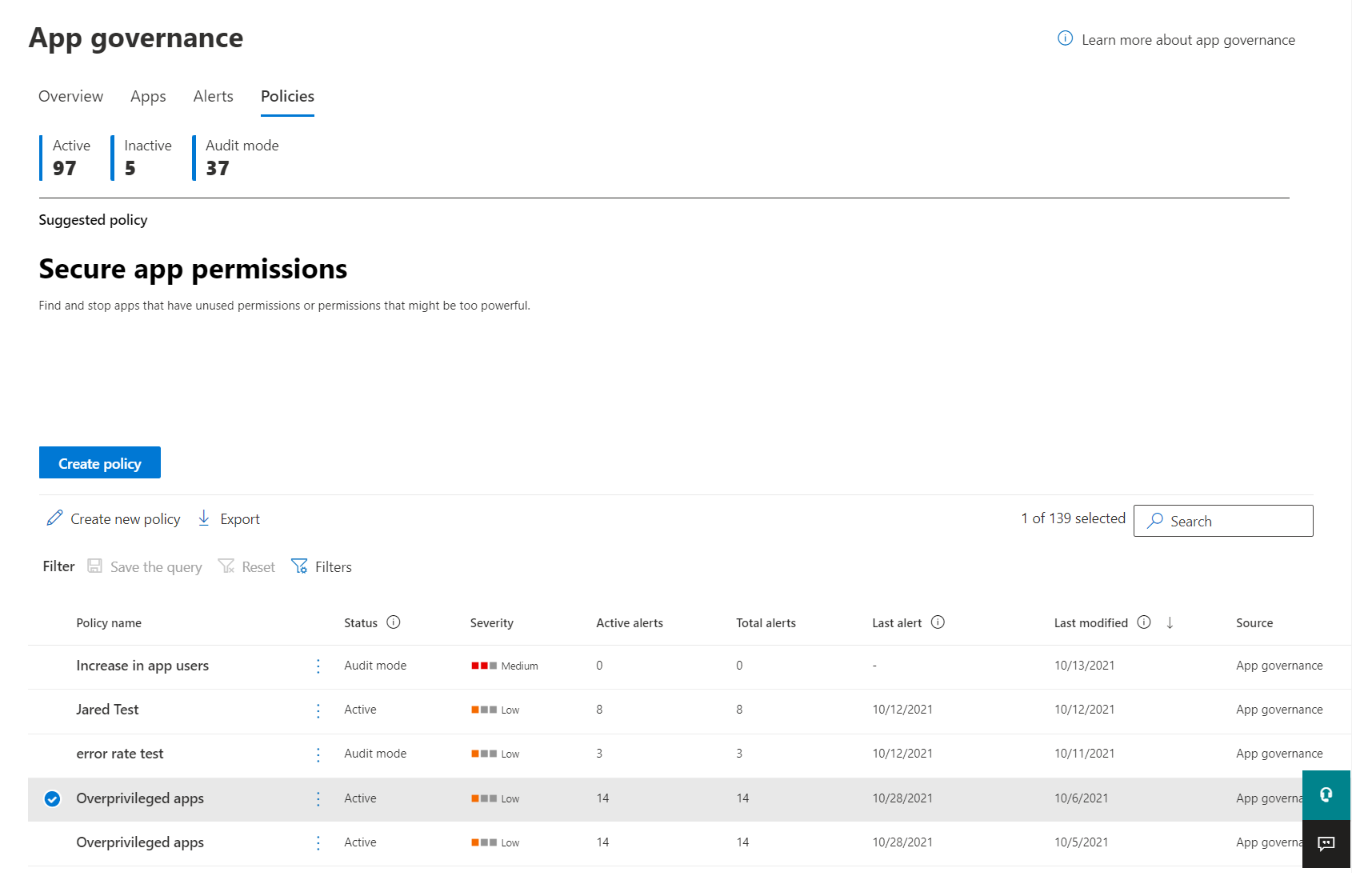
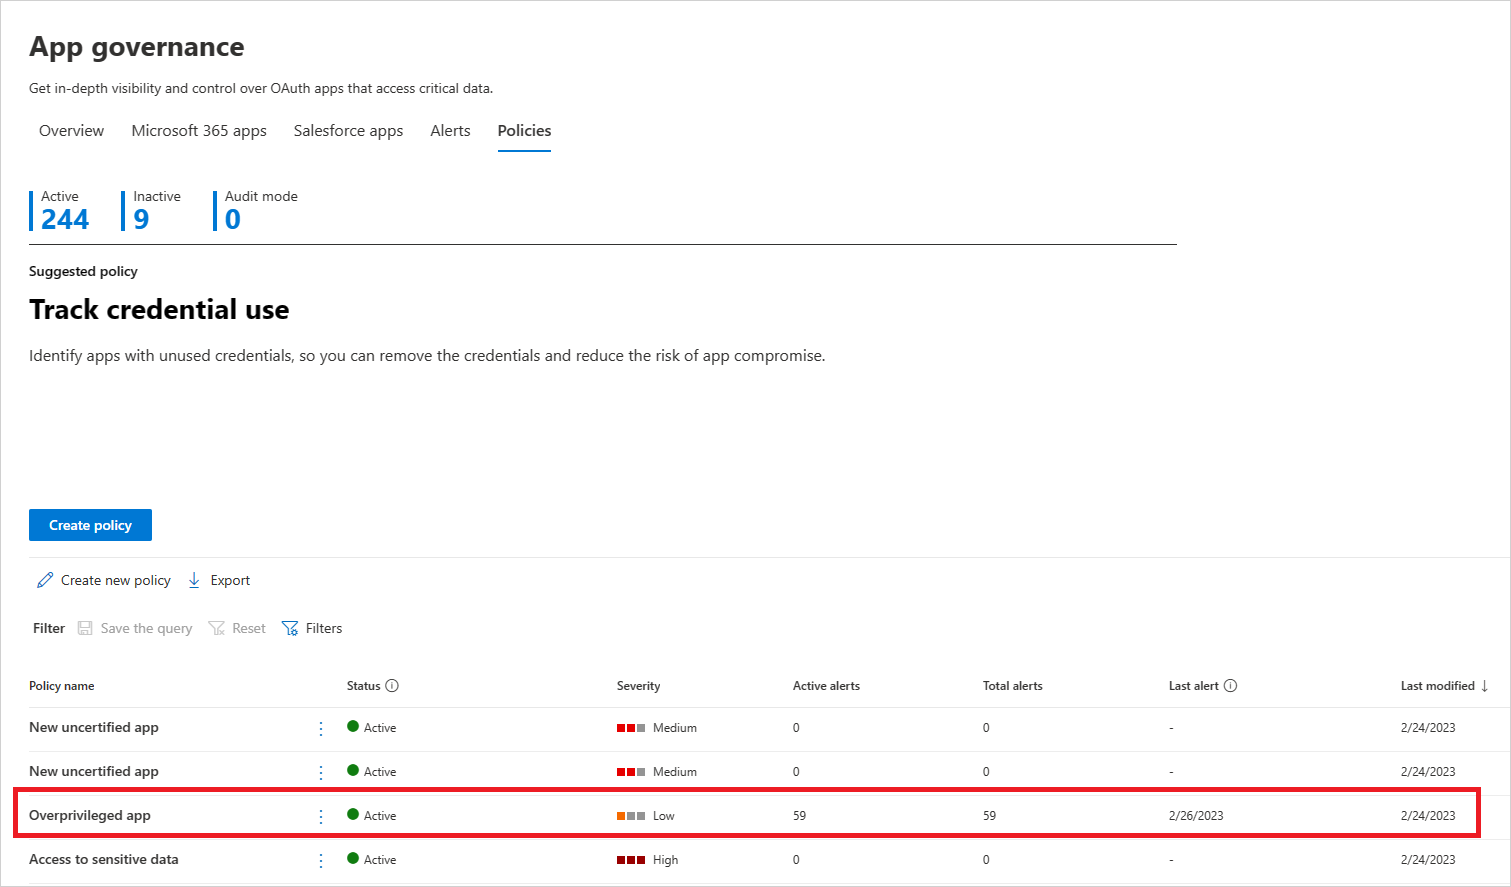
updates feb 26

diff --git a/CloudAppSecurityDocs/app-governance-secure-apps-app-hygiene-features.md b/CloudAppSecurityDocs/app-governance-secure-apps-app-hygiene-features.md
@@ -11,13 +11,13 @@ Have you ever wanted to see the apps that your organization owns but isn't using
 
 Watch this video for a brief explanation of these features:
 
-[!VIDEO https://www.microsoft.com/videoplayer/embed/RWWYEm]
+> [!VIDEO https://www.microsoft.com/videoplayer/embed/RWWYEm]
 
 ## App insights
 
 App governance allows you to sort and filter on app last used date, credential unused since, and credential expiration date. You can export this custom list for easy reporting and triage across your organization.
 
-[screenshot 1]
+:::image type="content" source="media/app-governance/custom-list.png" alt-text="Custom list of apps.":::
 
 ## App hygiene policies
 
@@ -25,7 +25,7 @@ App Governance provides a policy out of the box that alerts on unused apps to au
 
 You can also customize your own policy using the unused app condition. For example, you could create a policy to automatically disable any app that hasn’t been used in the past 90 days, has high privilege permissions, and can access [priority account information](/microsoft-365/admin/setup/priority-accounts). Like all App Governance alerts, these alerts will be aggregated into incidents in your Microsoft 365 Defender alerts queue and flow to advanced hunting and Sentinel.
 
-[screenshot 2]
+:::image type="content" source="media/app-governance/edit-policy-conditions.png" alt-text="Edit policy conditions.":::
 
 By staying on top of unused apps and expiring or unused app credentials and cleaning up your SaaS app inventory, you aren't only optimizing app usage and SaaS spend, but also, more importantly, keeping your app attack surface in check.
 

diff --git a/CloudAppSecurityDocs/app-governance-visibility-insights-get-started.md b/CloudAppSecurityDocs/app-governance-visibility-insights-get-started.md
@@ -32,7 +32,9 @@ The dashboard contains a summary of the components of the Microsoft 365 app ecos
   - **Unverified publisher**: Applications that haven't received [publisher certification](/azure/active-directory/develop/publisher-verification-overview) are considered unverified.
   - **App only permissions**: [Application permissions](/azure/active-directory/develop/v2-permissions-and-consent#permission-types) are used by apps that can run without a signed-in user present. Apps with permissions to access data across the tenant are potentially a higher risk.
   - **New apps**: New Microsoft 365 apps that have been registered in the last seven days.  
-  - **Unused**: Apps that have not signed in the last 30 days. These dormant apps might introduce unnecessary risk.
+  - **Unused**: Apps that have not signed in within the last 30 days.
+  - **Unused credentials**: Apps with one or more credentials that have not been used in the last 30 days.
+  - **Expiring credentials**: Apps with credentials that are expiring within 30 days.
 
 ## View app insights
 
@@ -44,9 +46,12 @@ One of the primary value points for app governance is the ability to quickly vie
     - Privilege level
     - Permission usage
     - Permission type
-    - Publisher type
+    - Publisher verified
 1. You can also use one or more of the non-default filters to further customize your selection of apps by choosing any of these options:
     - Last modified
+    - Last used
+    - Credential unused since
+    - Credential expiration
     - Added on
     - Certification
     - Users

diff --git a/CloudAppSecurityDocs/app-governance-visibility-insights-view-apps.md b/CloudAppSecurityDocs/app-governance-visibility-insights-view-apps.md
@@ -76,7 +76,7 @@ The app details pane provides additional information on these tabs:
 |Permissions | See a summary and list of the Graph API and legacy permissions granted to the app, consent type, and whether they are in use. For more information, see the [Microsoft Graph permissions reference](/graph/permissions-reference). |
 |Sensitive labels | See how frequent items with certain sensitivity labels were accessed by the app on Microsoft 365. |
 |Last used | Indicates the last time the app signed in and provides a link to related recommendations on Azure Active Directory. |
-| Credentials | Indicates whether the app has unused credentials and provides a link to credential management on Azure Active Directory. |
+| Credentials | Indicates whether the app has unused or expiring credentials and provides a link to credential management on Azure Active Directory. |
 
 For an enabled app, there's also a **Disable app** control to disable the use of the selected app and an **Enable app** control to enable the use of the disabled app. These actions require these administrator roles:
 

diff --git a/CloudAppSecurityDocs/app-governance-visibility-insights-compliance-posture.md b/CloudAppSecurityDocs/app-governance-visibility-insights-compliance-posture.md
@@ -15,7 +15,7 @@ For OAuth-enabled apps that use the Microsoft Graph API:
 - How many might be overprivileged
 - How many are highly privileged
 
-From this information, you can determine the level of risk to your organization by overprivileged and highly privileged apps.
+From this information, you can determine the level of risk to your organization by overprivileged, highly privileged apps, and unused apps.
 
 > [!div class="mx-imgBorder"]
 >![Determine the level of risk to your organization by overprivileged and highly privileged apps.](media/app-governance-visibility-insights-compliance-posture/app-summary.png)

diff --git a/CloudAppSecurityDocs/app-governance-visibility-insights-overview.md b/CloudAppSecurityDocs/app-governance-visibility-insights-overview.md
@@ -35,6 +35,8 @@ With app governance, you can see:
   - Top consented users whose data a specific app can access.
   - Priority accounts who have data that a specific app can access.
   - Unused apps
+  - Apps with unused credentials
+  - Apps with expired credentials
   - OAuth applications that have accessed sensitive or regular content on SharePoint, OneDrive, Exchange Online, or Teams.
 
 - A cumulative view of users accessing apps.
